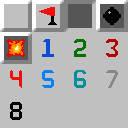
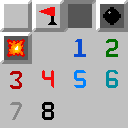
Change GameScene generation, add basic tile functionality
- GameScene is now generated by the dimensions of the board, not the pixels, which allows more flexibility with the board size
- Tiles now have basic functionality, showing not-pressed, pressed, and uncovered states. No grids, mines, or near-numbers for now.
- MinePane also now generates the tiles, which was a frustrating process due to the auto-layout nature of StackPane.

diff --git a/src/main/java/org/oxygencobalt/sweepered/nodes/Tile.java b/src/main/java/org/oxygencobalt/sweepered/nodes/Tile.java
@@ -4,9 +4,88 @@
 package nodes;
 
 import javafx.scene.layout.StackPane;
+import javafx.scene.layout.Region;
+import javafx.scene.Group;
 
-public class Tile extends StackPane {
-	public Tile(int x, int y, Boolean isMine) {}
+import javafx.event.EventHandler;
+import javafx.scene.input.MouseEvent;
+
+import javafx.scene.image.ImageView;
+
+import javafx.geometry.Rectangle2D;
+
+import components.TextureAtlas;
+
+public class Tile extends StackPane implements EventHandler<MouseEvent> {
+	private final int width = 32;
+	private final int height = 32;
+
+	private Rectangle2D mouseRect;
+
+	private Boolean isUncovered = false;
+
+	// ImageViews are left uninitialized to optimize the game
+	// Images are only loaded when they are needed
+	private ImageView normalTile;
+	private ImageView flaggedTile;
+	private ImageView pressedTile;
+	private ImageView mineTile;
+	private ImageView explodedTile;
+	private ImageView nearTile;
+
+	public Tile(int x, int y, int offset, Boolean isMine) {
+		setPrefSize(32, 32);
+		setMaxSize(Region.USE_PREF_SIZE, Region.USE_PREF_SIZE);
+		relocate(x * 32, y * 32);
+
+		// mouseRect is used to detect when the mouse has been released *outside* of the tile
+		// Offset is applied in order to create a rect relative to the scene, as I cant poll mouse positions relative to MinePane
+		mouseRect = new Rectangle2D(offset + (x * 32), (offset * 2) + (y * 32) + 40, 32, 32);
+
+		// These tiles are common, so theyre loaded in the class constructor
+		normalTile = TextureAtlas.get("tiles_ss/tiles/tile_normal");
+		flaggedTile = TextureAtlas.get("tiles_ss/tiles/tile_flagged");
+		pressedTile = TextureAtlas.get("tiles_ss/tiles/tile_pressed");
+
+		getChildren().addAll(pressedTile, flaggedTile, normalTile);
+
+		setOnMousePressed(this);
+		setOnMouseReleased(this);
+	}
+
+	// TODO: Add sounds to these presses/releases
+	private void uncover() {
+		nearTile = TextureAtlas.get("tiles_ss/tiles_near/0");
+		nearTile.toFront();
+
+		getChildren().addAll(nearTile);
+
+		isUncovered = true;
+	}
+
+	private void onPress(MouseEvent event) {
+		pressedTile.toFront();
+	}
+
+	private void onRelease(MouseEvent event) {
+		Boolean isInBox = mouseRect.contains(event.getSceneX(), event.getSceneY());
+
+		if (isInBox) {
+			uncover();
+		} else {
+			normalTile.toFront();
+		}
+	}
+
+	@Override
+	public void handle(MouseEvent event) {
+		String type = String.valueOf(event.getEventType());
+
+		if (!isUncovered) {
+			if (type.equals("MOUSE_PRESSED")) {onPress(event);}
+			if (type.equals("MOUSE_RELEASED")) {onRelease(event);}
+		}
+	}
 }
 
 // OxygenCobalt

diff --git a/src/main/java/org/oxygencobalt/sweepered/panes/MinePane.java b/src/main/java/org/oxygencobalt/sweepered/panes/MinePane.java
@@ -5,6 +5,7 @@ package panes;
 
 import javafx.scene.layout.StackPane;
 import javafx.scene.layout.Region;
+import javafx.scene.Group;
 
 import nodes.Tile;
 
@@ -12,22 +13,34 @@ public class MinePane extends StackPane {
 	public final int width;
 	public final int height;
 
+	private Group root;
+	// private Tile[][] tiles;
+
 	public MinePane(int mineWidth, int mineHeight, int offset) { // Width/Height is given as the amount of tiles, not pixels
 		width = mineWidth * 32; // Since w/h is based on mine count, its multiplied by the dimensions of the tiles to get the size in pixels
 		height = mineHeight * 32;
 
-		setPrefSize(width, height);
-		setMaxSize(Region.USE_PREF_SIZE, Region.USE_PREF_SIZE); // Lock Size to prevent unintential resizing by HBox/VBox
+		root = new Group();
 
-		// Offset is used to create "Gutters" between StatPane and MinePane, similar to the UI of the old minesweeper game
-		setLayoutX(offset);
-		setLayoutY((offset * 2) + 40); // Will be improved if Im able to get MinePane to fetch StatPane's height value
+		// tiles = new Tile[mineWidth][mineHeight];
+
+		setPrefSize(width, height);
+		setMaxSize(Region.USE_PREF_SIZE, Region.USE_PREF_SIZE); // Lock Size to prevent unintential resizing
+		relocate(offset, (offset * 2) + 40); // Offset is used to create "Gutters" between StatPane and MinePane
 
 		setStyle("-fx-background-color: black;");
+
+		generateMines(mineWidth, mineHeight, offset);
+
+		getChildren().add(root);
 	}
 
-	private void generateMines(int mineWidth, int mineHeight) {
-		return; // TODO: Actually generate the mines.
+	private void generateMines(int mineWidth, int mineHeight, int offset) {	
+		for (int x = 0; x<mineWidth; x++) {
+			for (int y = 0; y<mineHeight; y++) {
+				root.getChildren().add(new Tile(x, y, offset, false));
+			}
+		}
 	}
 }
 

diff --git a/src/main/java/org/oxygencobalt/sweepered/components/TextureAtlas.java b/src/main/java/org/oxygencobalt/sweepered/components/TextureAtlas.java
@@ -12,9 +12,11 @@ import javafx.scene.image.ImageView;
 import javafx.geometry.Rectangle2D;
 
 public class TextureAtlas {
+	private static String resPath = "file:src/main/resources/";
 	// Images
 	// These are loaded instead of a new image  being generated to save memory
-	private static Image tiles_ss = new Image("file:src/main/resources/tiles_ss.png");
+	private static Image tiles_ss = new Image(resPath + "tiles_ss.png");
+	private static Image grid_ss = new Image(resPath + "grid_ss.png");
 
 	// Coordinate list
 	// This contains every coordinate for every image on the spritesheet, albeit very ugly
@@ -30,6 +32,7 @@ public class TextureAtlas {
 			)),
 
 			entry("tiles_near", Map.ofEntries(
+				entry("0", new Rectangle2D(32, 32, 32, 32)),
 				entry("1", new Rectangle2D(32, 32, 32, 32)),
 				entry("2", new Rectangle2D(64, 32, 32, 32)),
 				entry("3", new Rectangle2D(96, 32, 32, 32)),
@@ -40,7 +43,7 @@ public class TextureAtlas {
 				entry("8", new Rectangle2D(0, 96, 32, 32))
 			))
 		))
-	);
+	); // TODO: Could possibly iterate through a different list to generate the Map
 
 	public static ImageView get(String path) { // To retreive an image, you format your argument as this/and/this, like a file path
 		ImageView crop = new ImageView();

diff --git a/src/main/java/org/oxygencobalt/sweepered/scenes/GameScene.java b/src/main/java/org/oxygencobalt/sweepered/scenes/GameScene.java
@@ -1,17 +1,11 @@
 // GameScene
 // Main Minesweeper game scene, only mode as of now is 9x9, but more will be added.
-// TODO: Make GameScene w/h dependent on MINE COUNT, not pixels
 
 package scenes;
 
 import javafx.scene.Scene;
 import javafx.scene.Group;
 import javafx.scene.paint.Color;
-
-import javafx.scene.image.Image;
-import javafx.scene.image.ImageView;
-
-import components.TextureAtlas;
 
 import panes.MinePane;
 import panes.StatPane;
@@ -23,14 +17,14 @@ public class GameScene extends Scene {
 	private MinePane board;
 	private final Color backgroundColor = Color.rgb(192, 192, 192);
 
-	public GameScene(Group group, int width, int height) {
+	public GameScene(Group group, int mineWidth, int mineHeight) {
 		// Call super to construct Scene(), and then add passed group to class.
-		super(group, width, height);
+		super(group, (mineWidth * 32) + 20, (mineHeight * 32) + 70);
 		setFill(backgroundColor);
 
 		// Load the main panes
-		bar = new StatPane(40, width, 10, 0);
-		board = new MinePane(9, 9, 10);
+		bar = new StatPane(40, (mineWidth * 32), 10, 0);
+		board = new MinePane(mineWidth, mineHeight, 10);
 
 		root = group;
 		root.getChildren().addAll(bar, board);

diff --git a/src/main/java/org/oxygencobalt/sweepered/SweeperedApp.java b/src/main/java/org/oxygencobalt/sweepered/SweeperedApp.java
@@ -1,13 +1,7 @@
 // Sweepered
 // A Minesweeper clone in Java
 
-// TODO: Create a textureatlas for
-// Mines/Tiles
-// Timer [6-Segments]
-// Maybe Title Screen
-
-// TextureAtlas has constants for every tile
-// Class calls function get() from TextureAtlas with static constant, returns typecasted image
+// Make sure to use -S for all commits from now on :)
 
 package org.oxygencobalt.sweepered;
 
@@ -16,8 +10,6 @@ import javafx.stage.Stage;
 import javafx.scene.Group;
 
 import scenes.GameScene;
-
-import components.TextureAtlas;
 
 public class SweeperedApp extends Application {
     private Stage window;
@@ -30,7 +22,7 @@ public class SweeperedApp extends Application {
         window.setTitle("Sweepered");
 
         // Load scenes
-        GameScene mainScene = new GameScene(new Group(), 308, 358);
+        GameScene mainScene = new GameScene(new Group(), 9, 9);
 
         window.setScene(mainScene); // Currently the main scene loaded is just GameScene
         window.show();

diff --git a/src/main/java/org/oxygencobalt/sweepered/panes/StatPane.java b/src/main/java/org/oxygencobalt/sweepered/panes/StatPane.java
@@ -12,14 +12,11 @@ public class StatPane extends StackPane {
 
 	public StatPane(int argHeight, int argWidth, int offset, int mineCount) { // MineCount is given by MinePane.mines [To be added]
 		height = argHeight;
-		width = argWidth - (offset * 2);
+		width = argWidth;
 
 		setPrefSize(width, height);
 		setMaxSize(Region.USE_PREF_SIZE, Region.USE_PREF_SIZE); // Lock Size to prevent unintential resizing by HBox/VBox
-
-		// Offset is used to create "Gutters" between StatPane and MinePane, similar to the UI of the old minesweeper game
-		setLayoutX(offset);
-		setLayoutY(offset);
+		relocate(offset, offset); // Offset is used to create "Gutters" between StatPane and MinePane
 
 		setStyle("-fx-background-color: white;");
 	}
